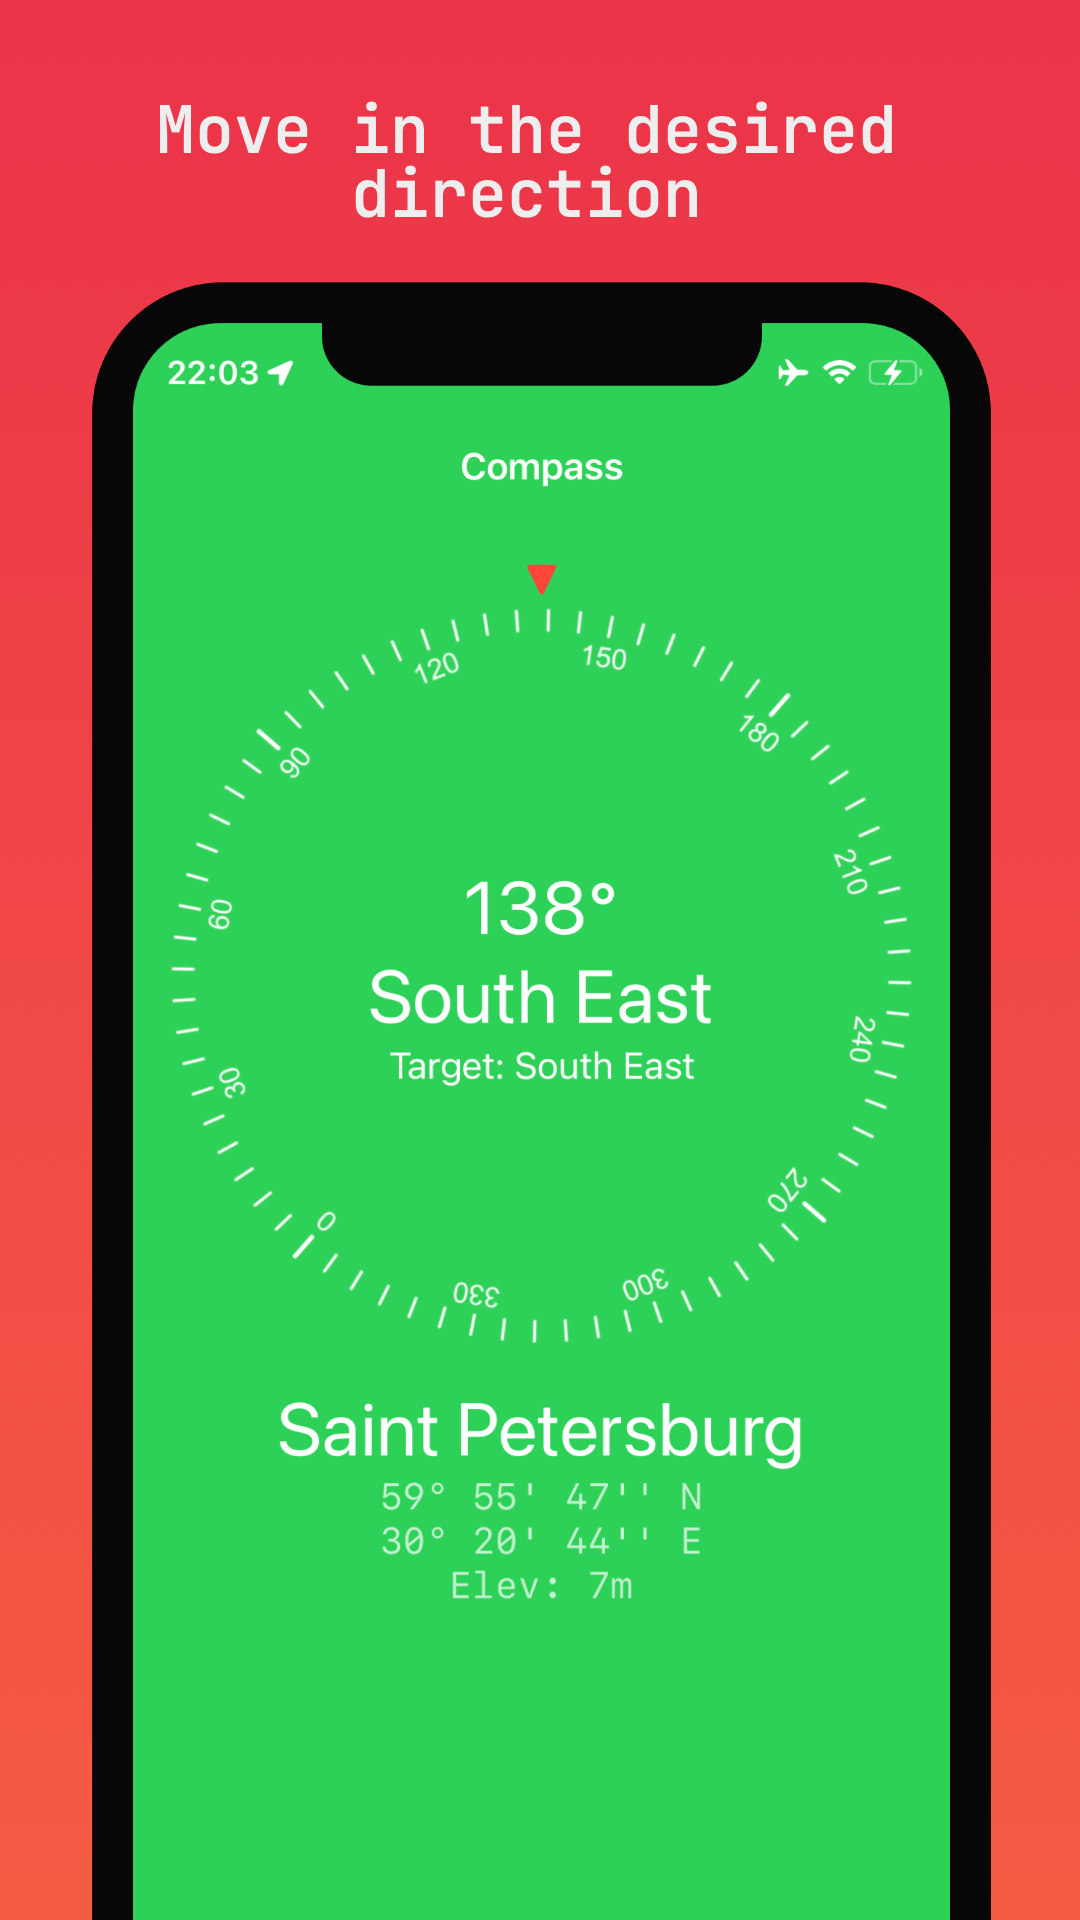
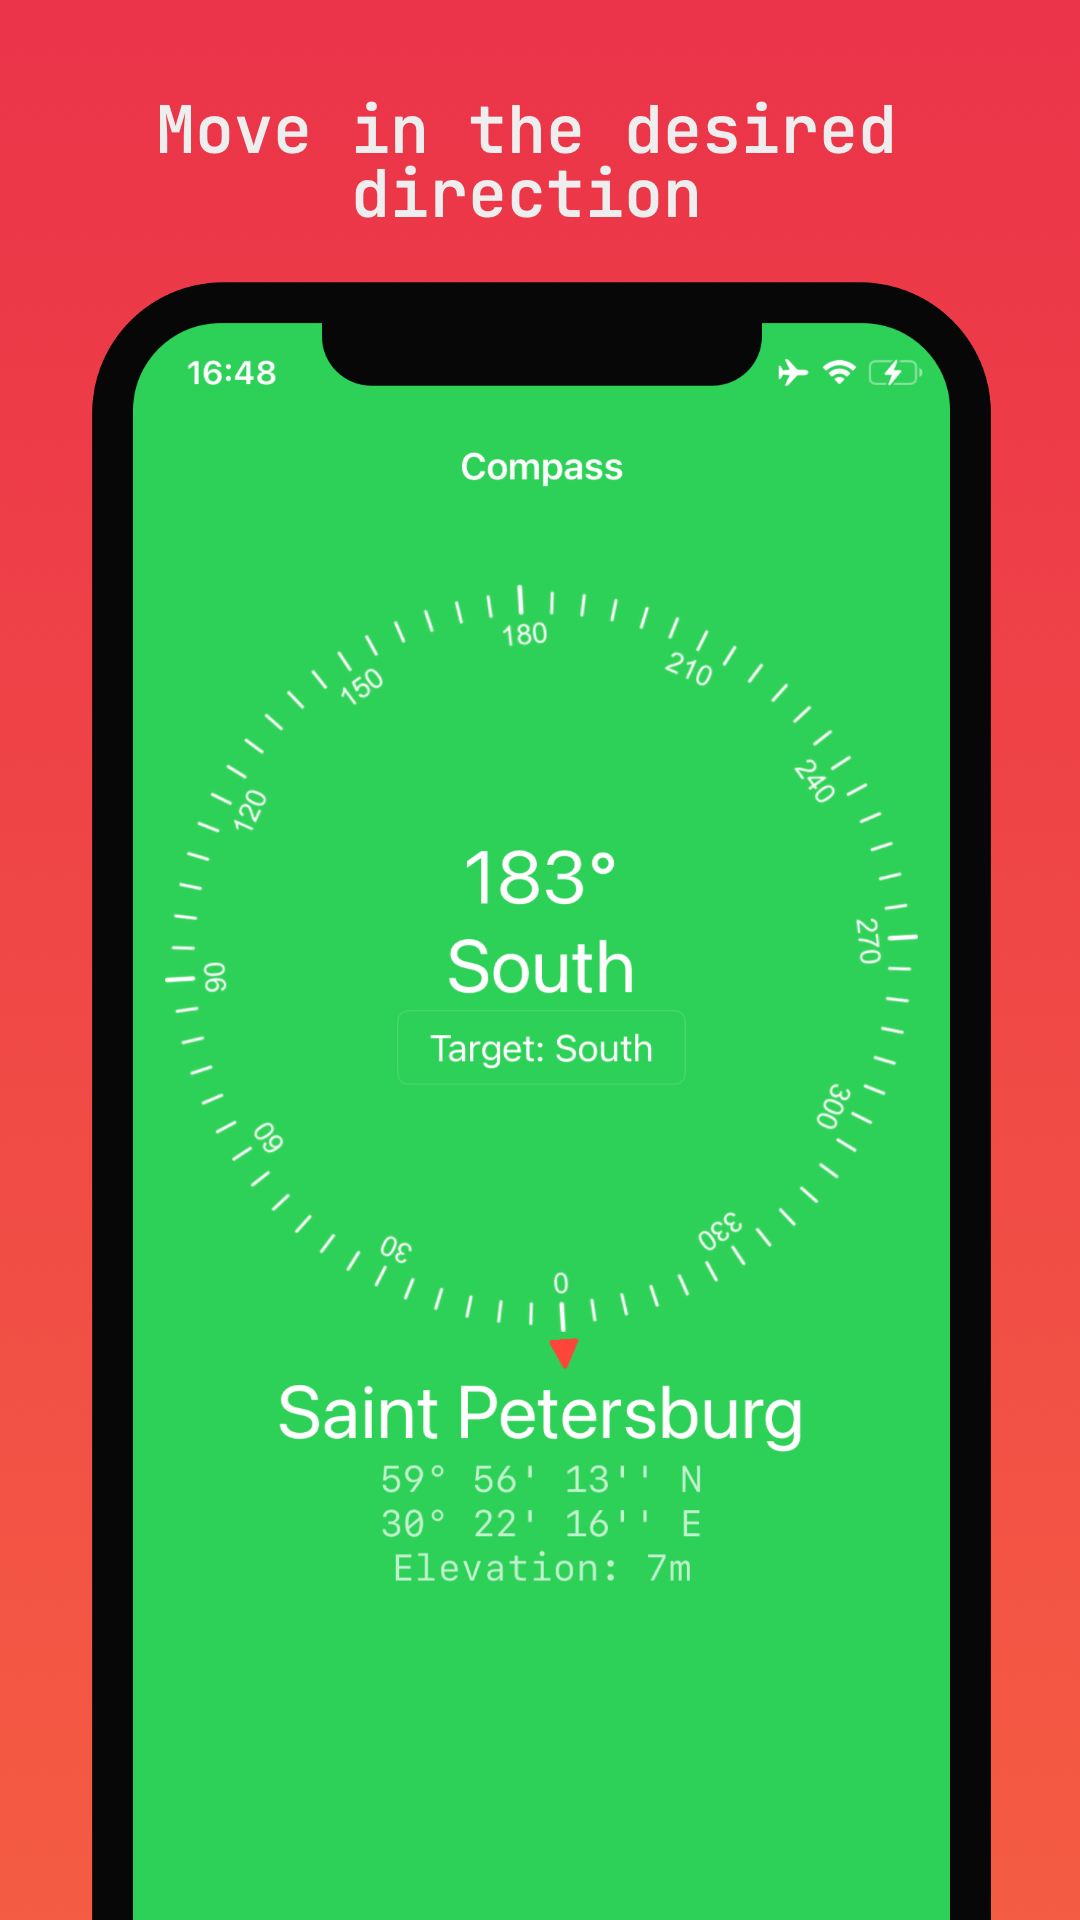
Final commit

diff --git a/CompassApp/CompassModule/CompassViewController.swift b/CompassApp/CompassModule/CompassViewController.swift
@@ -50,9 +50,12 @@ final class CompassViewController: UIViewController {
     
     private let targetTextField: UITextField = {
         let textField = UITextField()
-        textField.placeholder = "Add target"
         textField.textAlignment = .center
+        textField.borderStyle = .roundedRect
+        textField.placeholder = "Add target"
+        textField.backgroundColor = .clear
         textField.textColor = .systemRed
+        textField.tintColor = .systemRed
         return textField
     }()
     
@@ -108,10 +111,10 @@ private extension CompassViewController {
     
     func configureCompassComponents() {
         let angleArrow = UIImageView()
-        angleArrow.image = UIImage(systemName: "arrowtriangle.down.fill")
+        angleArrow.image = UIImage(systemName: "arrowtriangle.up.fill")
         angleArrow.translatesAutoresizingMaskIntoConstraints = false
         angleArrow.tintColor = .systemRed
-        view.addSubview(angleArrow)
+        compassImageView.addSubview(angleArrow)
         
         view.addSubview(compassImageView)
         NSLayoutConstraint.activate([

diff --git a/CompassApp/CompassModule/CompassPresenter.swift b/CompassApp/CompassModule/CompassPresenter.swift
@@ -108,7 +108,7 @@ extension CompassPresenterImp: CLLocationManagerDelegate {
         
         view?.updateCoordinates(lat: latitude.formatLatitude(),
                                 lon: longitude.formatLongitude(),
-                                alt: String(format: "%@ %.0fm", "Elev:", altitude))
+                                alt: String(format: "%@ %.0fm", "Elevation:", altitude))
         
         
         CLGeocoder().reverseGeocodeLocation(location) { placemarks, error in

diff --git a/README.md b/README.md
@@ -12,10 +12,12 @@ iOS compass app
 - MVP (Model View Presenter) architecture
 - Core Location
 - Geocoder
-- CoreData
+- Haptic feedback
 - No storyboards
 - Without third-party libraries
 - UNIT tests
 
 ## Preview
-[![](https://markdown-videos.deta.dev/youtube/Pnl05yI4Gnw)](https://youtu.be/Pnl05yI4Gnw)
+[![](https://markdown-videos.deta.dev/youtube/vztqU5eROEc)](https://youtu.be/vztqU5eROEc)
+
+###### Screenshots: [App Store Screenshots Generator](https://screenshots.pro) , App icon: [Bakery](https://apps.apple.com/nl/app/bakery-simple-icon-creator/id1575220747?mt=12)
